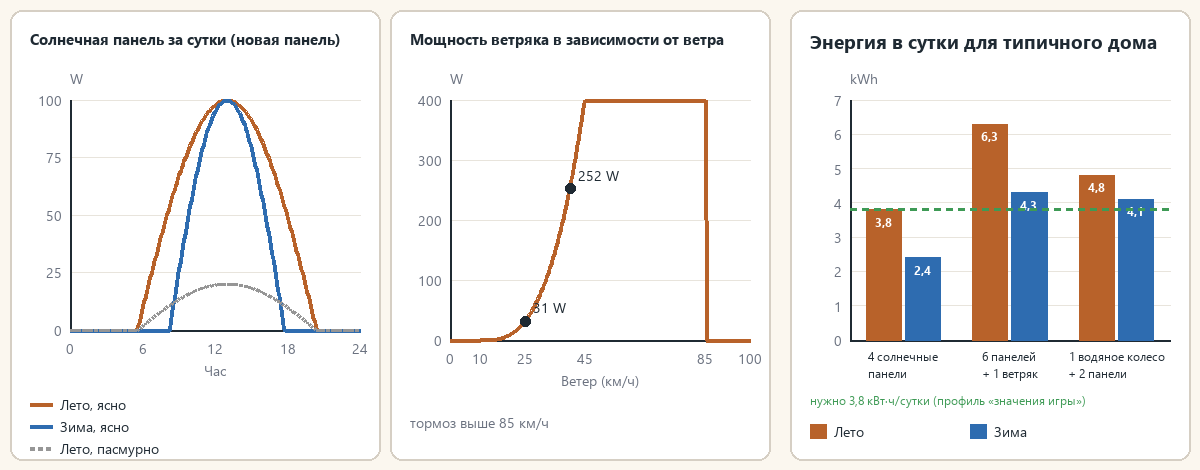
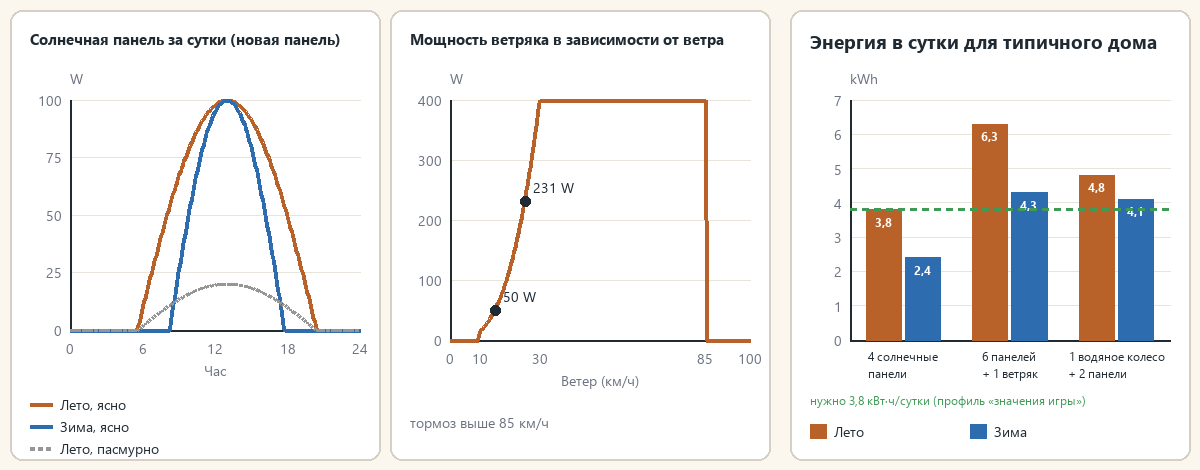
Make wind turbines useful in ordinary weather
Ordinary Zomboid wind mostly stays between 5 and 25 km/h, where the old
((v - 10) / 35)^3 curve gave 0 to 30 W. Power now follows (v / 30)^3 from the
10 km/h cut-in, with full power at 30 km/h instead of 45. Blades use the same
height-corrected wind as the simulation and stop above the 85 km/h cut-out.
Docs, wiki, Workshop descriptions and production diagrams follow the new curve.

Changed region(s): [[0.4317, 0.2085, 0.5242, 0.5064], [0.4008, 0.5064, 0.4625, 0.7447], [0.4317, 0.7447, 0.4933, 0.7745]]

diff --git a/tools/make_doc_images.py b/tools/make_doc_images.py
@@ -344,9 +344,9 @@ def solar_w(h, length, factor=1.0):
 def wind_w(v):
     if v < 10 or v > 85:
         return 0.0
-    if v >= 45:
+    if v >= 30:
         return 400.0
-    return 400.0 * ((v - 10) / 35.0) ** 3
+    return 400.0 * (v / 30.0) ** 3
 
 
 def plot(d, box, xs, series, xr, yr, xticks, yticks, lang, xlabel, ylabel):
@@ -427,8 +427,8 @@ def production(lang):
     xs = [i / 2 for i in range(0, 201)]
     title(d, (410, 28), t["c_wind"], lang, 345)
     P = plot(d, (450, 100, 750, 340), xs, [(ACCENT, [wind_w(x) for x in xs], 4, False)],
-             (0, 100), (0, 400), [0, 10, 25, 45, 85, 100], [0, 100, 200, 300, 400], lang, t["wind_axis"], "W")
-    for v in (25, 40):
+             (0, 100), (0, 400), [0, 10, 30, 85, 100], [0, 100, 200, 300, 400], lang, t["wind_axis"], "W")
+    for v in (15, 25):
         px, py = P(v, wind_w(v))
         d.ellipse((px - 5, py - 5, px + 5, py + 5), fill=INK)
         text(d, (px + 8, py - 4), "%d W" % round(wind_w(v)), fS, INK, anchor="ld")

diff --git a/tests/test_physics.py b/tests/test_physics.py
@@ -56,7 +56,8 @@ def main():
 
     # Wind.
     check(P.windFactor(5) == 0, "below cut-in")
-    check(approx(P.windFactor(25), (15 / 35) ** 3), "cubic ramp")
+    check(approx(P.windFactor(10), (10 / 30) ** 3), "produces from cut-in")
+    check(approx(P.windFactor(25), (25 / 30) ** 3), "cubic ramp")
     check(P.windFactor(60) == 1, "rated plateau")
     check(P.windFactor(90) == 0, "storm cut-out")
     check(approx(P.windAtHeight(20, 2), 26), "height bonus")

diff --git a/docs/wiki/fr/13-faq.md b/docs/wiki/fr/13-faq.md
@@ -35,7 +35,7 @@ Tout son réseau est déconnecté. Le tourner conserve les liaisons. Une source 
 Aucune limite : les productions s'additionnent. Une journée de référence (frigo-congélateur, 10 lumières pendant 6 h, télévision pendant 3 h) demande environ 3,8 kWh avec les valeurs du jeu et 7,4 kWh en Réaliste 1993. En hiver, 6 panneaux plus 1 éolienne donnent environ 4,3 kWh (assez pour les valeurs du jeu), et 1 roue à aubes plus 8 panneaux environ 7,7 kWh (assez pour Réaliste 1993). Voir [Production et calculs](04-production-et-calculs.md#exemple-de-dimensionnement).
 
 **Quelle vitesse de vent faut-il à l'éolienne ?**
-Rien en dessous de 10 km/h, 100 % (400 W) de 45 à 85 km/h, et frein automatique au-delà de 85 km/h. Entre les deux, 25 km/h donnent environ 31 W et 40 km/h environ 252 W. Le vent compte +15 % par étage jusqu'au 3e. Voir [Production et calculs](04-production-et-calculs.md).
+Rien en dessous de 10 km/h, environ 15 W à 10 km/h, 100 % (400 W) de 30 à 85 km/h, et frein automatique au-delà de 85 km/h. Entre les deux, 15 km/h donnent environ 50 W et 25 km/h environ 231 W. Posez-la sur un toit pour plus de vent. Le vent compte +15 % par étage jusqu'au 3e. Voir [Production et calculs](04-production-et-calculs.md).
 
 **Où poser la roue à aubes ?**
 Au rez-de-chaussée, sur la berge d'une rivière, à côté de l'eau de la rivière. Les lacs et étangs sont refusés car le moteur ne distingue pas le courant d'un lac. Elle demande le niveau 2 à la pose (7 à la fabrication) et produit jour et nuit (environ 2,9 kWh par jour). Voir [Équipements](02-equipements.md).

diff --git a/docs/wiki/en/13-faq.md b/docs/wiki/en/13-faq.md
@@ -35,7 +35,7 @@ Its whole network is disconnected. Rotating it keeps the links. A picked-up sour
 There is no limit; productions add up. A reference day (fridge-freezer, 10 lights for 6 h, TV for 3 h) needs about 3.8 kWh with the game values and 7.4 kWh with Realistic 1993. In winter, 6 panels plus 1 wind turbine give about 4.3 kWh (enough for the game values), and 1 water wheel plus 8 panels about 7.7 kWh (enough for Realistic 1993). See [Production and calculations](04-production-and-calculations.md#sizing-example).
 
 **What wind speed does the turbine need?**
-It produces nothing below 10 km/h, reaches 100 % (400 W) from 45 to 85 km/h, and brakes automatically above 85 km/h. In between, 25 km/h gives about 31 W and 40 km/h about 252 W. Wind counts +15 % per floor up to the 3rd. See [Production and calculations](04-production-and-calculations.md).
+It produces nothing below 10 km/h, gives about 15 W at 10 km/h, reaches 100 % (400 W) from 30 to 85 km/h, and brakes automatically above 85 km/h. In between, 15 km/h gives about 50 W and 25 km/h about 231 W. Build it on a roof for more wind. Wind counts +15 % per floor up to the 3rd. See [Production and calculations](04-production-and-calculations.md).
 
 **Where can I place the water wheel?**
 On the ground floor, on a river bank, next to river water. Lakes and ponds are refused because the engine cannot tell a lake's current. It needs Electrical level 7, and it produces day and night (about 2.9 kWh per day). See [Equipment](02-equipment.md).

diff --git a/CHANGELOG.md b/CHANGELOG.md
@@ -6,6 +6,8 @@
 - Fixed water poured into a barrel linked to a water pump seeming to disappear while the pump showed 0 L/h. The pump only filled its hidden tanks for every sink, shower and toilet in range, plumbed or not, including the neighbours' houses. It now only supplies the fixtures you have plumbed with a pipe wrench, and a newly plumbed fixture gets water within a game minute.
 
 ### Improvements
+- Wind turbines are now useful in ordinary Zomboid weather. They produce from 10 km/h (about 15 W) and reach full power at 30 km/h instead of 45: about 50 W at 15 km/h and 230 W at 25 km/h, where they used to show 0 to 30 W.
+- Turbine blades now turn exactly when the turbine produces: they count the height bonus (+15% wind per floor, up to the 3rd) and stop above 85 km/h.
 - Show the supplied taps now highlights in grey the fixtures in range that are not plumbed yet, so you can see which ones still need the pipe wrench.
 
 ## 1.6.4 — 2026-10-28

diff --git a/docs/specifications-fonctionnelles.md b/docs/specifications-fonctionnelles.md
@@ -243,11 +243,11 @@ Les noms de recette sont les clés de `Recipes.json` (`java/zombie/core/Translat
 | Vent `v` | `f(v)` |
 |---|---|
 | < 10 km/h | 0 |
-| 10 à 45 km/h | `((v − 10) / 35)³` |
-| 45 à 85 km/h | 1 |
+| 10 à 30 km/h | `(v / 30)³` |
+| 30 à 85 km/h | 1 |
 | > 85 km/h | 0 (frein automatique) ; risque de dégât (§ 4.4) |
 
-- **Puissance nominale : 400 W.** À 25 km/h, l'éolienne produit ≈ **31 W** ; à 40 km/h, ≈ **252 W**.
+- **Puissance nominale : 400 W.** À 10 km/h, l'éolienne produit ≈ **15 W** ; à 15 km/h, ≈ **50 W** ; à 25 km/h, ≈ **231 W**. Le vent courant du jeu se situe surtout entre 5 et 25 km/h (`ClimateValues.java:265-270`), d'où la pleine puissance à 30 km/h.
 - **Point incertain** : la répartition réelle du vent n'est pas connue. La base plafonne vers 78 km/h hors période météo (`java/zombie/iso/weather/ClimateValues.java:265-270`). Le prototype P5 la mesurera.
 
 ### 3.4 Roue à aubes

diff --git a/docs/wiki/fr/04-production-et-calculs.md b/docs/wiki/fr/04-production-et-calculs.md
@@ -42,17 +42,16 @@ Courbe en sinus entre l'aube et le crépuscule de la saison. Les nuages laissent
 
 ## Éolien (400 W)
 
-0 sous 10 km/h ; ((v − 10) / 35)³ entre 10 et 45 km/h ; 100 % de 45 à 85 km/h ; 0 au-dessus de 85 km/h (frein automatique). Le vent gagne 15 % par étage, jusqu'au 3e.
+0 sous 10 km/h ; (v / 30)³ entre 10 et 30 km/h ; 100 % de 30 à 85 km/h ; 0 au-dessus de 85 km/h (frein automatique). Le vent gagne 15 % par étage, jusqu'au 3e.
 
 | Vent (km/h) | Part de la puissance nominale | Puissance |
 |---|---|---|
 | 0 | 0 % | 0 W |
-| 10 | 0 % | 0 W |
-| 20 | 2 % | environ 9 W |
-| 25 | 8 % | environ 31 W |
-| 30 | 19 % | environ 75 W |
-| 40 | 63 % | environ 252 W |
-| 45 | 100 % | 400 W |
+| 10 | 4 % | environ 15 W |
+| 15 | 13 % | environ 50 W |
+| 20 | 30 % | environ 119 W |
+| 25 | 58 % | environ 231 W |
+| 30 | 100 % | 400 W |
 | 60 | 100 % | 400 W |
 | 85 | 100 % | 400 W |
 | 90 | 0 % (frein) | 0 W |

diff --git a/docs/wiki/en/04-production-and-calculations.md b/docs/wiki/en/04-production-and-calculations.md
@@ -45,20 +45,19 @@ Sine curve between the season's dawn and dusk. Clouds leave 20 % at full overcas
 ## Wind turbine (400 W)
 
 - 0 below 10 km/h.
-- ((v - 10) / 35)^3 between 10 and 45 km/h.
-- 100 % from 45 to 85 km/h.
+- (v / 30)^3 between 10 and 30 km/h.
+- 100 % from 30 to 85 km/h.
 - 0 above 85 km/h (automatic brake).
 - Wind is +15 % per floor, up to the 3rd.
 
 | Wind (km/h) | Share of nominal | Power |
 |---|---|---|
 | 0 | 0 % | 0 W |
-| 10 | 0 % | 0 W |
-| 20 | 2 % | about 9 W |
-| 25 | 8 % | about 31 W |
-| 30 | 19 % | about 75 W |
-| 40 | 63 % | about 252 W |
-| 45 | 100 % | 400 W |
+| 10 | 4 % | about 15 W |
+| 15 | 13 % | about 50 W |
+| 20 | 30 % | about 119 W |
+| 25 | 58 % | about 231 W |
+| 30 | 100 % | 400 W |
 | 60 | 100 % | 400 W |
 | 85 | 100 % | 400 W |
 | 90 | 0 % | 0 W (brake) |

diff --git a/README_fr.md b/README_fr.md
@@ -288,11 +288,11 @@ Le serveur calcule toutes les 10 minutes de jeu, joueurs présents ou non (optio
 | Vent | Part de la puissance |
 |---|---|
 | Moins de 10 km/h | 0 |
-| 10 à 45 km/h | ((v − 10) / 35)³ |
-| 45 à 85 km/h | 100 % |
+| 10 à 30 km/h | (v / 30)³ |
+| 30 à 85 km/h | 100 % |
 | Plus de 85 km/h | 0 (frein automatique) |
 
-Exemples : 25 km/h ≈ 31 W, 40 km/h ≈ 252 W.
+Exemples : 10 km/h ≈ 15 W, 15 km/h ≈ 50 W, 25 km/h ≈ 231 W.
 
 **Roue à aubes (120 W)** : jour et nuit, ≈ 2,9 kWh par jour ; saison : printemps × 1,2, été × 0,8, automne et hiver × 1,0. Rivières seulement (le moteur ne sait pas distinguer le courant d'un lac).
 

diff --git a/README.md b/README.md
@@ -324,11 +324,11 @@ Sine curve between the season's dawn and dusk. Clouds leave 20 % at full overcas
 | Wind speed | Share of nominal power |
 |---|---|
 | Below 10 km/h | 0 |
-| 10 to 45 km/h | ((v − 10) / 35)³ |
-| 45 to 85 km/h | 100 % |
+| 10 to 30 km/h | (v / 30)³ |
+| 30 to 85 km/h | 100 % |
 | Above 85 km/h | 0 (automatic brake) |
 
-Wind gets +15 % per floor, up to the 3rd. Examples: 25 km/h ≈ 31 W, 40 km/h ≈ 252 W.
+Wind gets +15 % per floor, up to the 3rd. Examples: 10 km/h ≈ 15 W, 15 km/h ≈ 50 W, 25 km/h ≈ 231 W.
 
 ### Water wheel (120 W)
 
